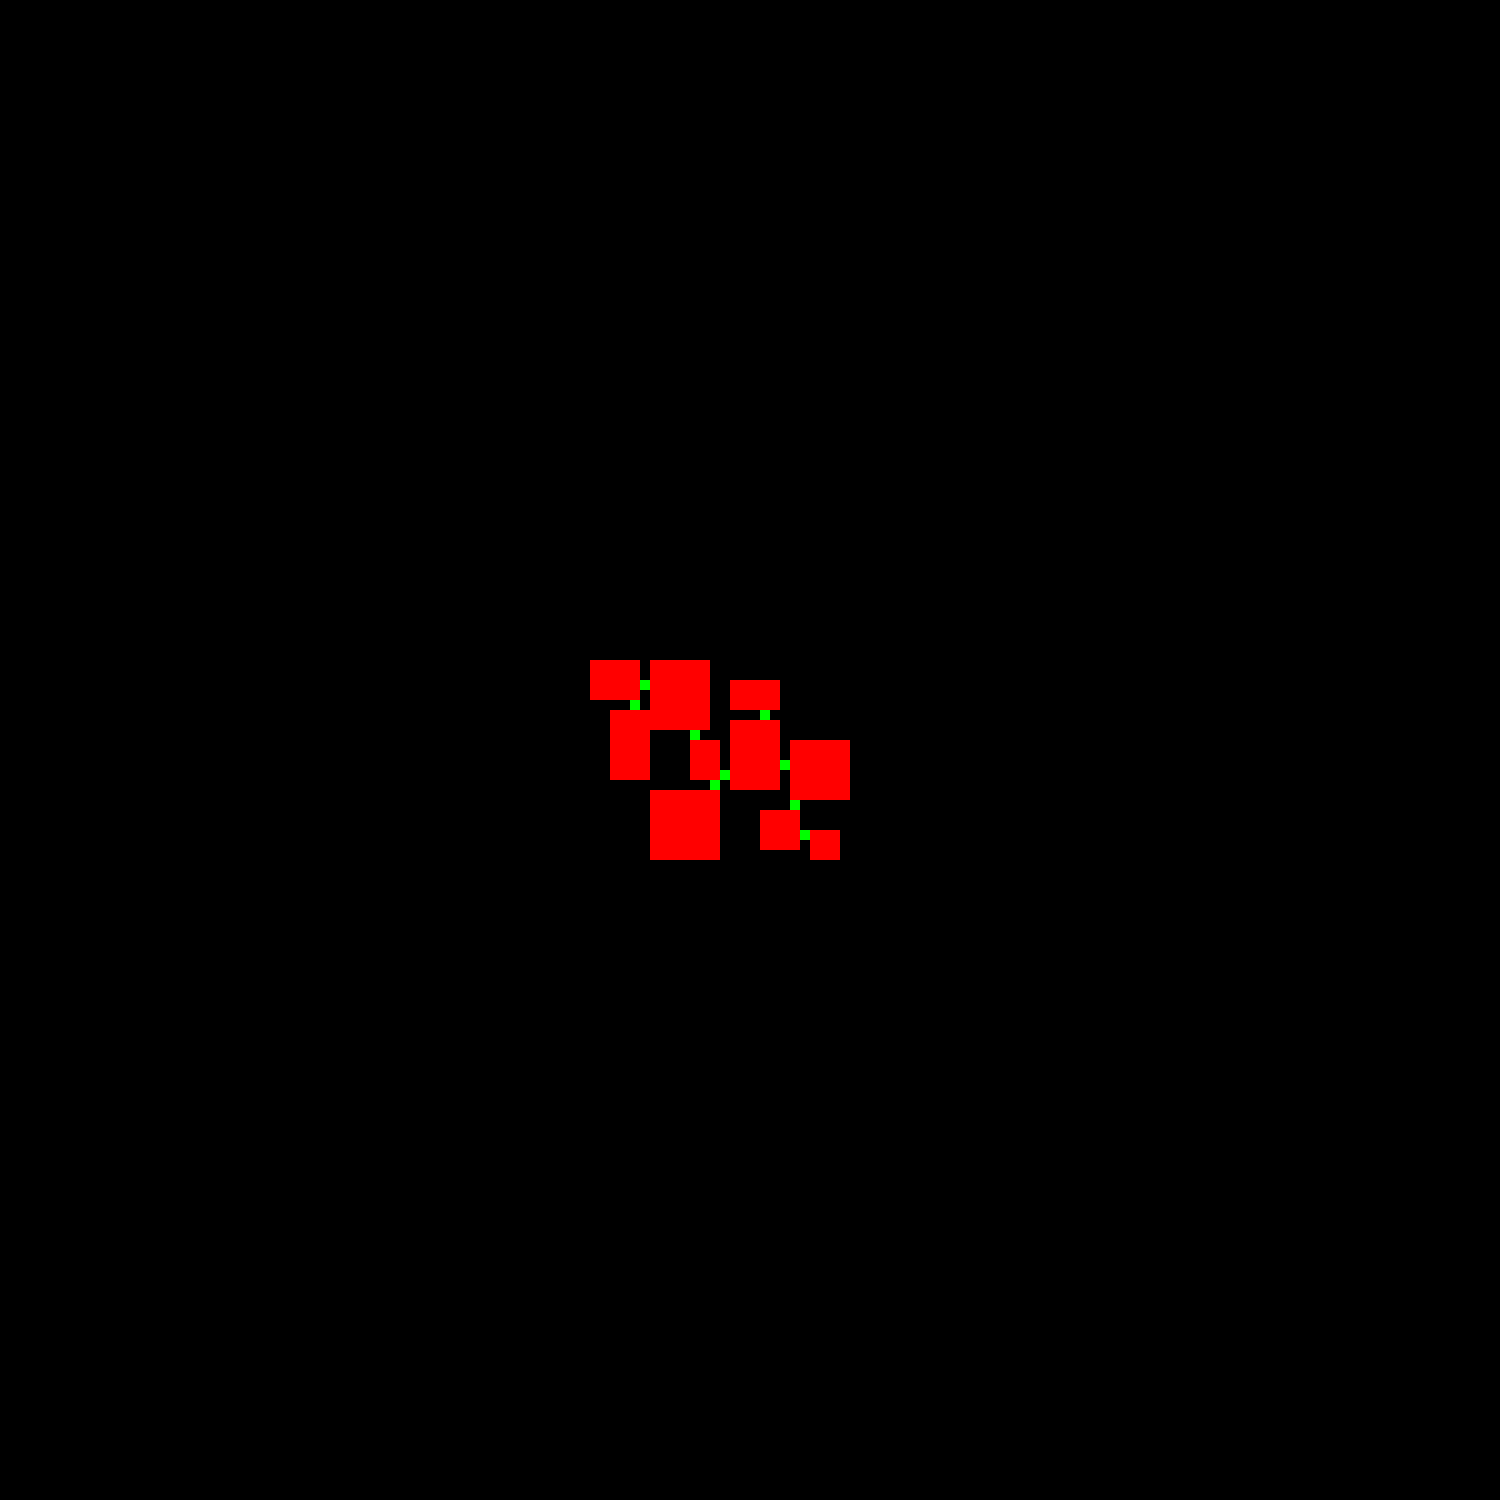
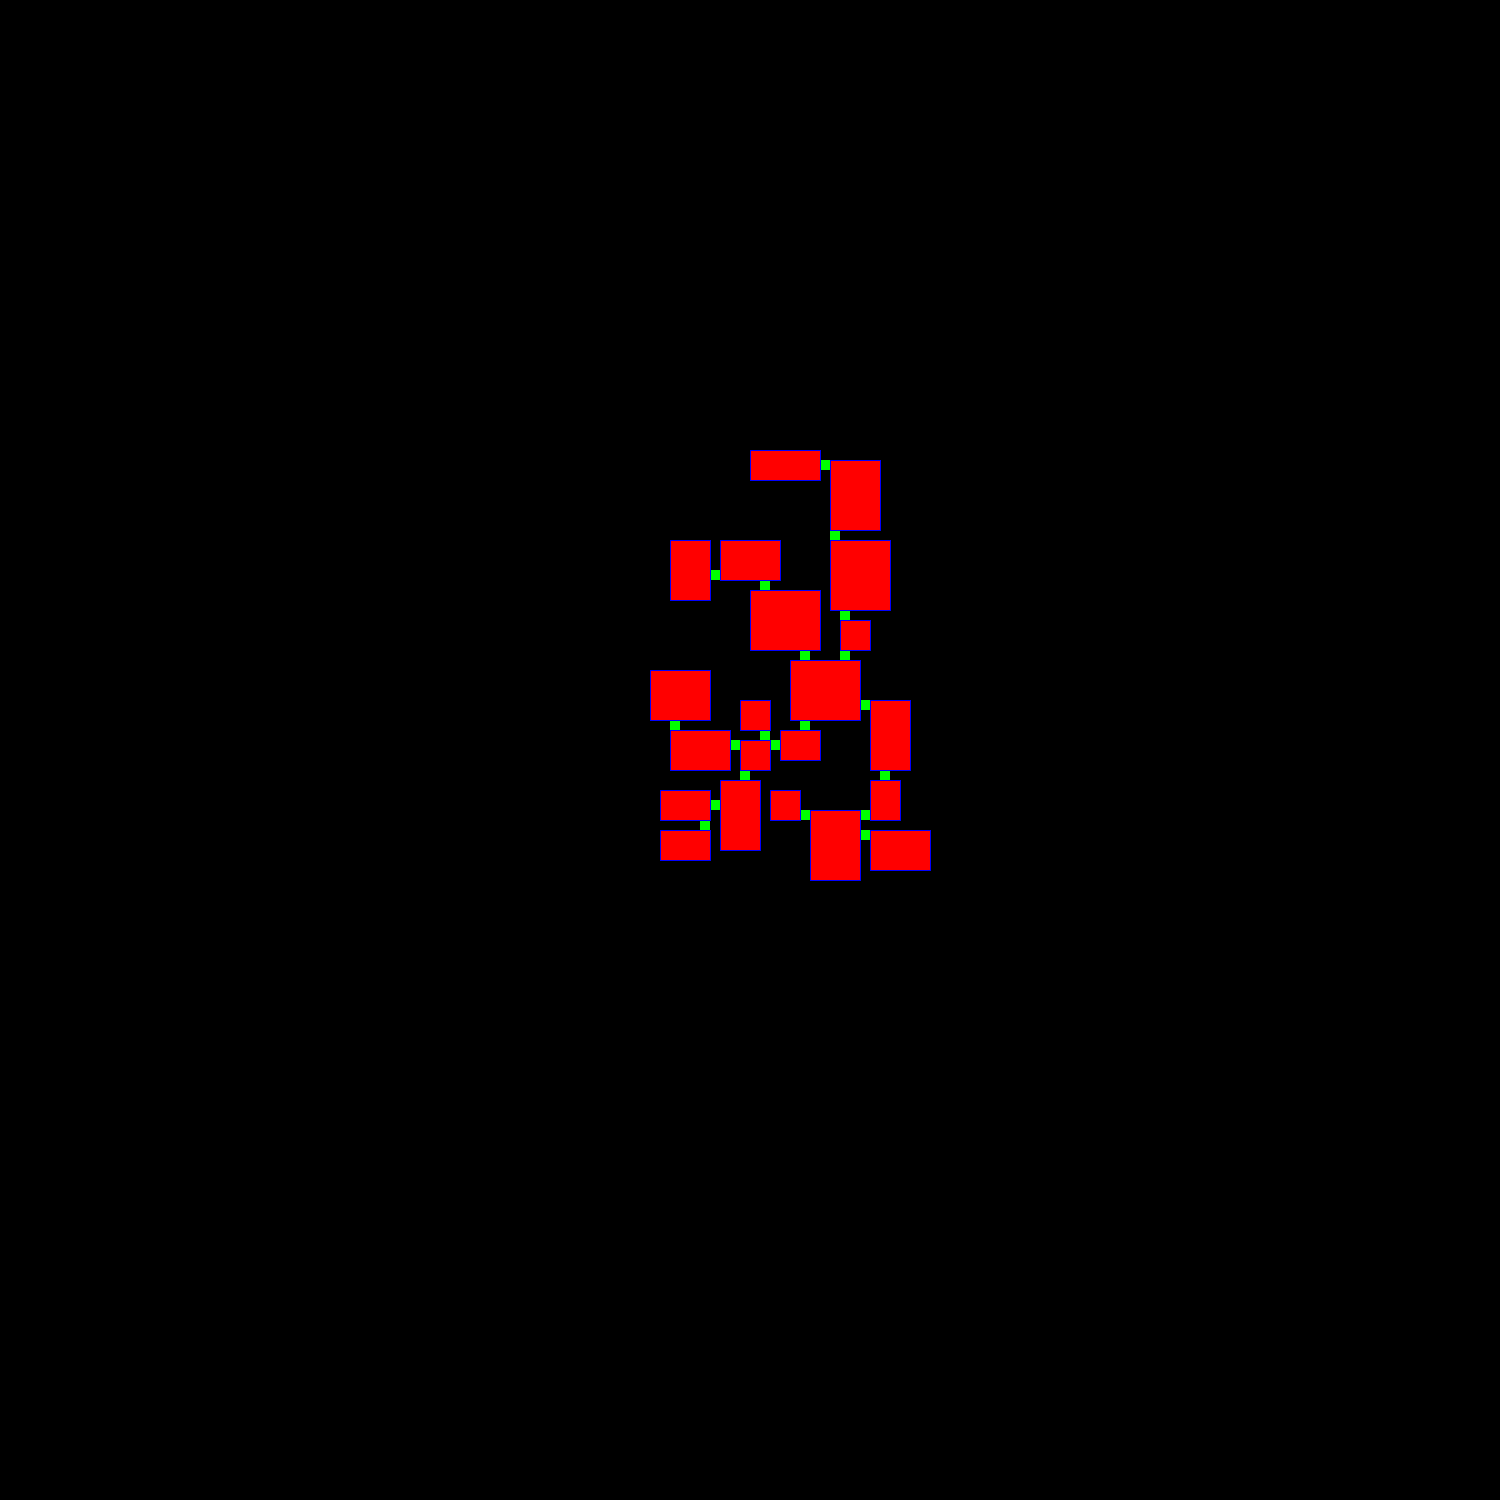
запилил норм комнаты

Changed region(s): [[0.368, 0.276, 0.644, 0.6133]]

diff --git a/src/com/company/Generator.java b/src/com/company/Generator.java
@@ -78,9 +78,14 @@ public class Generator {
                         c = Color.GREEN;
                     }
                 }
+
                 graphics.setColor(c);
                 graphics.fillRect(i * 10, j * 10, 10, 10);
             }
+        }
+        for (Room room : rooms) {
+            graphics.setColor(Color.BLUE);
+            graphics.drawRect(room.bottomLeft.x * 10, room.bottomLeft.y* 10, room.width*10, room.height*10);
         }
         image.flush();
         ImageIO.write(image, "png", new File(name + "test2.png"));
@@ -102,8 +107,9 @@ public class Generator {
 
     public void generate() throws IOException {
         placeCenterRoom();
-        int counter=0;
-        while(counter!=10){
+        long time = System.currentTimeMillis();
+        int counter = 0;
+        while (counter != 20) {
             Point[] walls = getWalls();
 //        render("1");
 //        for (Point wall : walls) {
@@ -118,51 +124,60 @@ public class Generator {
 //            generateCorridor(element);
 //        } else {
             boolean b = generateRoom(element);
-            if(b){
+            if (b) {
                 counter++;
             }
             render("ASD");
 //        }
         }
+        System.out.println(System.currentTimeMillis() - time + "msec");
     }
 
     private boolean generateRoom(Point wall) {
-        int centerRoomWidth = random.nextInt(5) + 3;//2-5
-        int centerRoomHeight = random.nextInt(5) + 3;//2-5
+        int width = random.nextInt(5) + 3;//2-5
+        int height = random.nextInt(5) + 3;//2-5
         int x = 0, y = 0;
         //проверки на возможно вставки
         if (world[wall.x][wall.y - 1] != null) {
             //NORTH         ++
-            int contactX = random.nextInt(centerRoomWidth);
+            int contactX = random.nextInt(width);
             x = wall.x - contactX;
             y = wall.y + 1;
+            if (!canPlaceRoom(x - 1, y, width + 2, height + 1)) {
+                return false;
+            }
         } else if (world[wall.x][wall.y + 1] != null) {
             //SOUTH ++
-            int contactX = random.nextInt(centerRoomWidth);
+            int contactX = random.nextInt(width);
             x = wall.x - contactX;
-            y = wall.y - centerRoomHeight;
+            y = wall.y - height;
+            if (!canPlaceRoom(x - 1, y - 1, width + 2, height + 2)) {
+                return false;
+            }
         } else if (world[wall.x - 1][wall.y] != null) {
             //east
-            int contactY = random.nextInt(centerRoomHeight);
+            int contactY = random.nextInt(height);
             y = wall.y - contactY;
             x = wall.x + 1;
+            if (!canPlaceRoom(x, y - 1, width + 1, height + 2)) {
+                return false;
+            }
         } else if (world[wall.x + 1][wall.y] != null) {
             //west                 ++
-            int contactY = random.nextInt(centerRoomHeight);
+            int contactY = random.nextInt(height);
             y = wall.y - contactY;
-            x = wall.x - centerRoomWidth;
+            x = wall.x - width;
+            if (!canPlaceRoom(x - 1, y - 1, width + 2, height + 2)) {
+                return false;
+            }
         } else {
             //попали на угол
             return false;
         }
-        if (!canPlaceRoom(x, y, centerRoomWidth, centerRoomHeight)) {
-            return false;
-        }
         world[wall.x][wall.y] = BlockType.CORRIDOR;
-        placeRoom(x, y, centerRoomWidth, centerRoomHeight);
+        placeRoom(x, y, width, height);
         Point bottomLeft = new Point(x, y);
-        Point topRight = new Point(x + centerRoomWidth, y + centerRoomHeight);
-        Room room = new Room(bottomLeft, topRight);
+        Room room = new Room(bottomLeft, width, height);
         rooms.add(room);
         //чек все 4 стороны
         return true;
@@ -170,7 +185,7 @@ public class Generator {
 
     private boolean canPlaceRoom(int x, int y, int w, int h) {
         for (Room room : rooms) {
-            if (room.intersects(x-1, y-1, w+1, h+1)) {
+            if (room.intersects(x, y, w, h)) {
                 return false;
             }
         }
@@ -187,16 +202,15 @@ public class Generator {
     }
 
     private void placeCenterRoom() {
-        int centerRoomWidth = random.nextInt(5) + 3;//2-5
-        int centerRoomHeight = random.nextInt(5) + 3;//2-5
-        int x = size / 2 - centerRoomWidth / 2;
-        int y = size / 2 - centerRoomHeight / 2;
+        int width = random.nextInt(5) + 3;//2-5
+        int height = random.nextInt(5) + 3;//2-5
+        int x = size / 2 - width / 2;
+        int y = size / 2 - height / 2;
         Point bottomLeft = new Point(x, y);
-        Point topRight = new Point(x + centerRoomWidth, y + centerRoomHeight);
-        Room room = new Room(bottomLeft, topRight);
+        Room room = new Room(bottomLeft, width, height);
         rooms.add(room);
 
-        placeRoom(x, y, centerRoomWidth, centerRoomHeight);
+        placeRoom(x, y, width, height);
     }
 
     private void placeRoom(int x, int y, int centerRoomWidth, int centerRoomHeight) {
@@ -209,11 +223,14 @@ public class Generator {
 
 
     private static class Room {
-        public Point bottomLeft, topRight;
+        public Point bottomLeft;
+        private int width;
+        private int height;
 
-        public Room(Point bottomLeft, Point topRight) {
+        public Room(Point bottomLeft, int width, int height) {
             this.bottomLeft = bottomLeft;
-            this.topRight = topRight;
+            this.width = width;
+            this.height = height;
             this.walls = getWalls();
         }
 
@@ -222,15 +239,15 @@ public class Generator {
         public List<Point> getWalls() {
             List<Point> walls = new ArrayList<Point>();
             //hori
-            for (int x = bottomLeft.x - 1; x <= topRight.x; x++) {
+            for (int x = bottomLeft.x - 1; x <= bottomLeft.x + width; x++) {
                 //add checks
                 walls.add(new Point(x, bottomLeft.y - 1));
-                walls.add(new Point(x, topRight.y));
+                walls.add(new Point(x, bottomLeft.y + height));
             }
             //vert
-            for (int y = bottomLeft.y; y <= topRight.y; y++) {
+            for (int y = bottomLeft.y; y <= bottomLeft.y + height; y++) {
                 walls.add(new Point(bottomLeft.x - 1, y));
-                walls.add(new Point(topRight.x, y));
+                walls.add(new Point(bottomLeft.x + width, y));
             }
             return walls;
         }
@@ -238,8 +255,8 @@ public class Generator {
         public boolean intersects(int x, int y, int w, int h) {
             return (x + w > bottomLeft.x &&
                     y + h > bottomLeft.y &&
-                    x < topRight.x &&
-                    y < topRight.y);
+                    x < bottomLeft.x + width &&
+                    y < bottomLeft.y + height);
         }
     }
 
